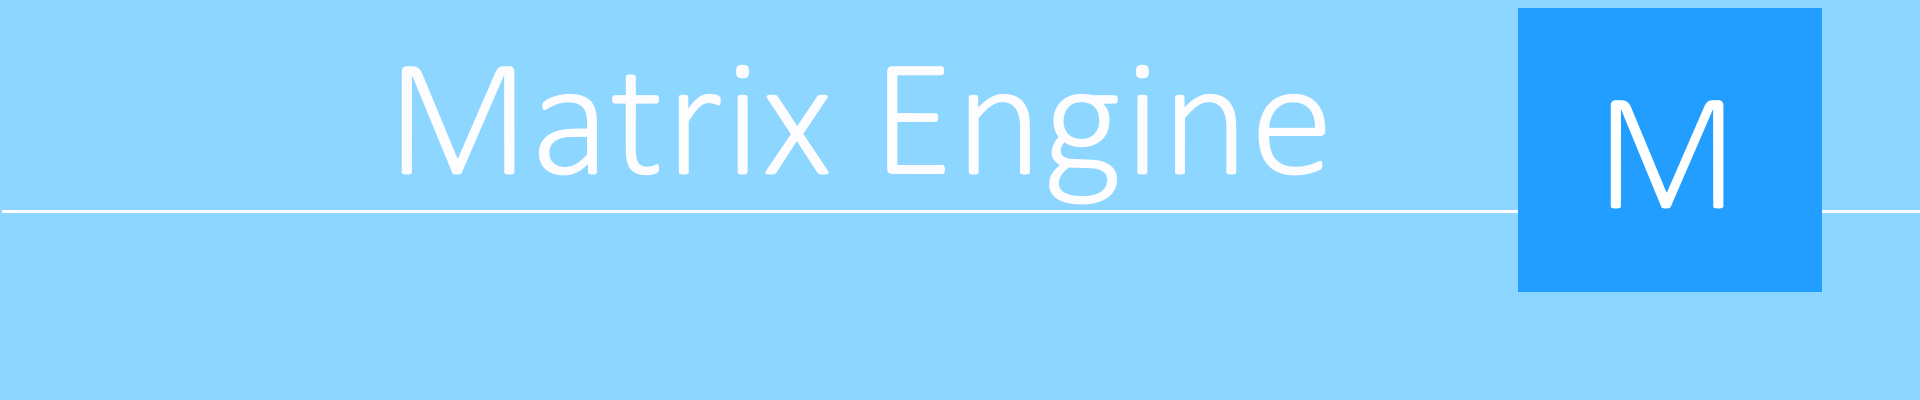
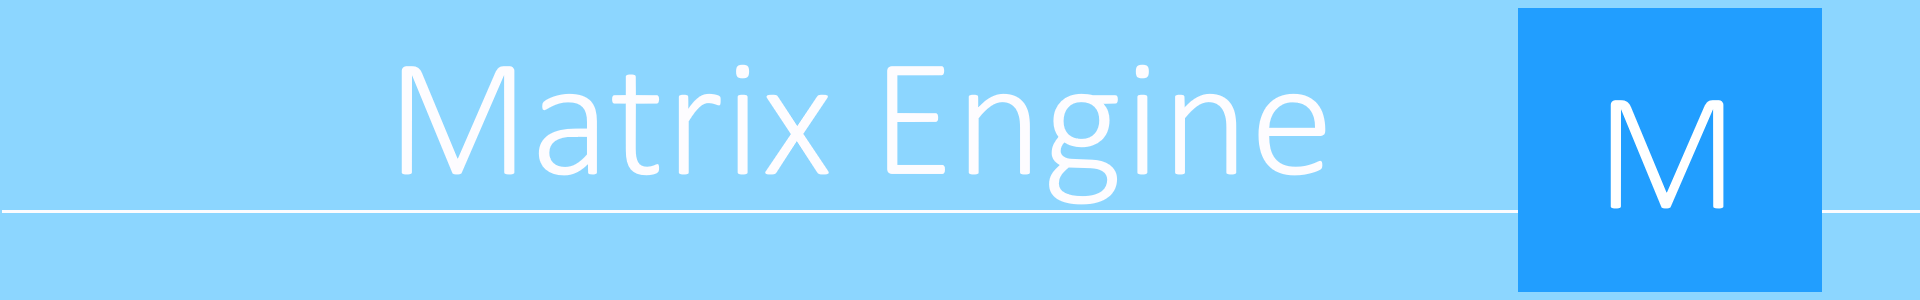
Updating

diff --git a/index.html b/index.html
@@ -13,11 +13,6 @@ text-align: center;
 color: white;
 font-size: 75px;
 }
-.pure-button {
-    color: white;
-    border-radius: 4px;
-    text-shadow: 0 1px 1px rgba(0, 0, 0, 0.2);
-}
 .pbutton {
 	background-color:#0099ff;
 	border-radius:28px;
@@ -42,16 +37,35 @@ font-size: 75px;
 	text-align: center;
 }
 .backimg{
-	background: Banner.png;
+	width: 1920px;
+	height: 300px;
+	border: 25px solid black;
+	background: url("Banner.png");
+}
+.about{
+	background-color: #293036;
+	font-family: Roboto;
+	text-align: center;
+	color: white;
+	font-size: 20px;
 }
 </style>
 </head>
 <body>
 <div class="backimg">
-<h1 class="title" >Matrix Engine</h1>
-<div class="button">
-<a href="#" class="pbutton">Download Matrix Engine</a>
 </div>
+<div class="button">
+<a href="https://github.com/Zhang-Dev-byte/Matrix-Engine" class="pbutton">Download Matrix Engine</a>
+</div>
+<div class="about">
+<p>Matrix Engine is a game engine built on python, the python modules used in Matrix Engine is pygame, Matrix Engine is not built on OpenGL.</p>
+<br>
+<h1>FAQ</h1>
+<p>Q: Do I have to install pygame?</p>
+<p>A: Yes. Or else, the modules won't work</p>
+<br>
+<p>Q: Do I have to install PyOpenGL</p>
+<p>A: No. It uses pygame</p>
 </div>
 </body>
 </html>
